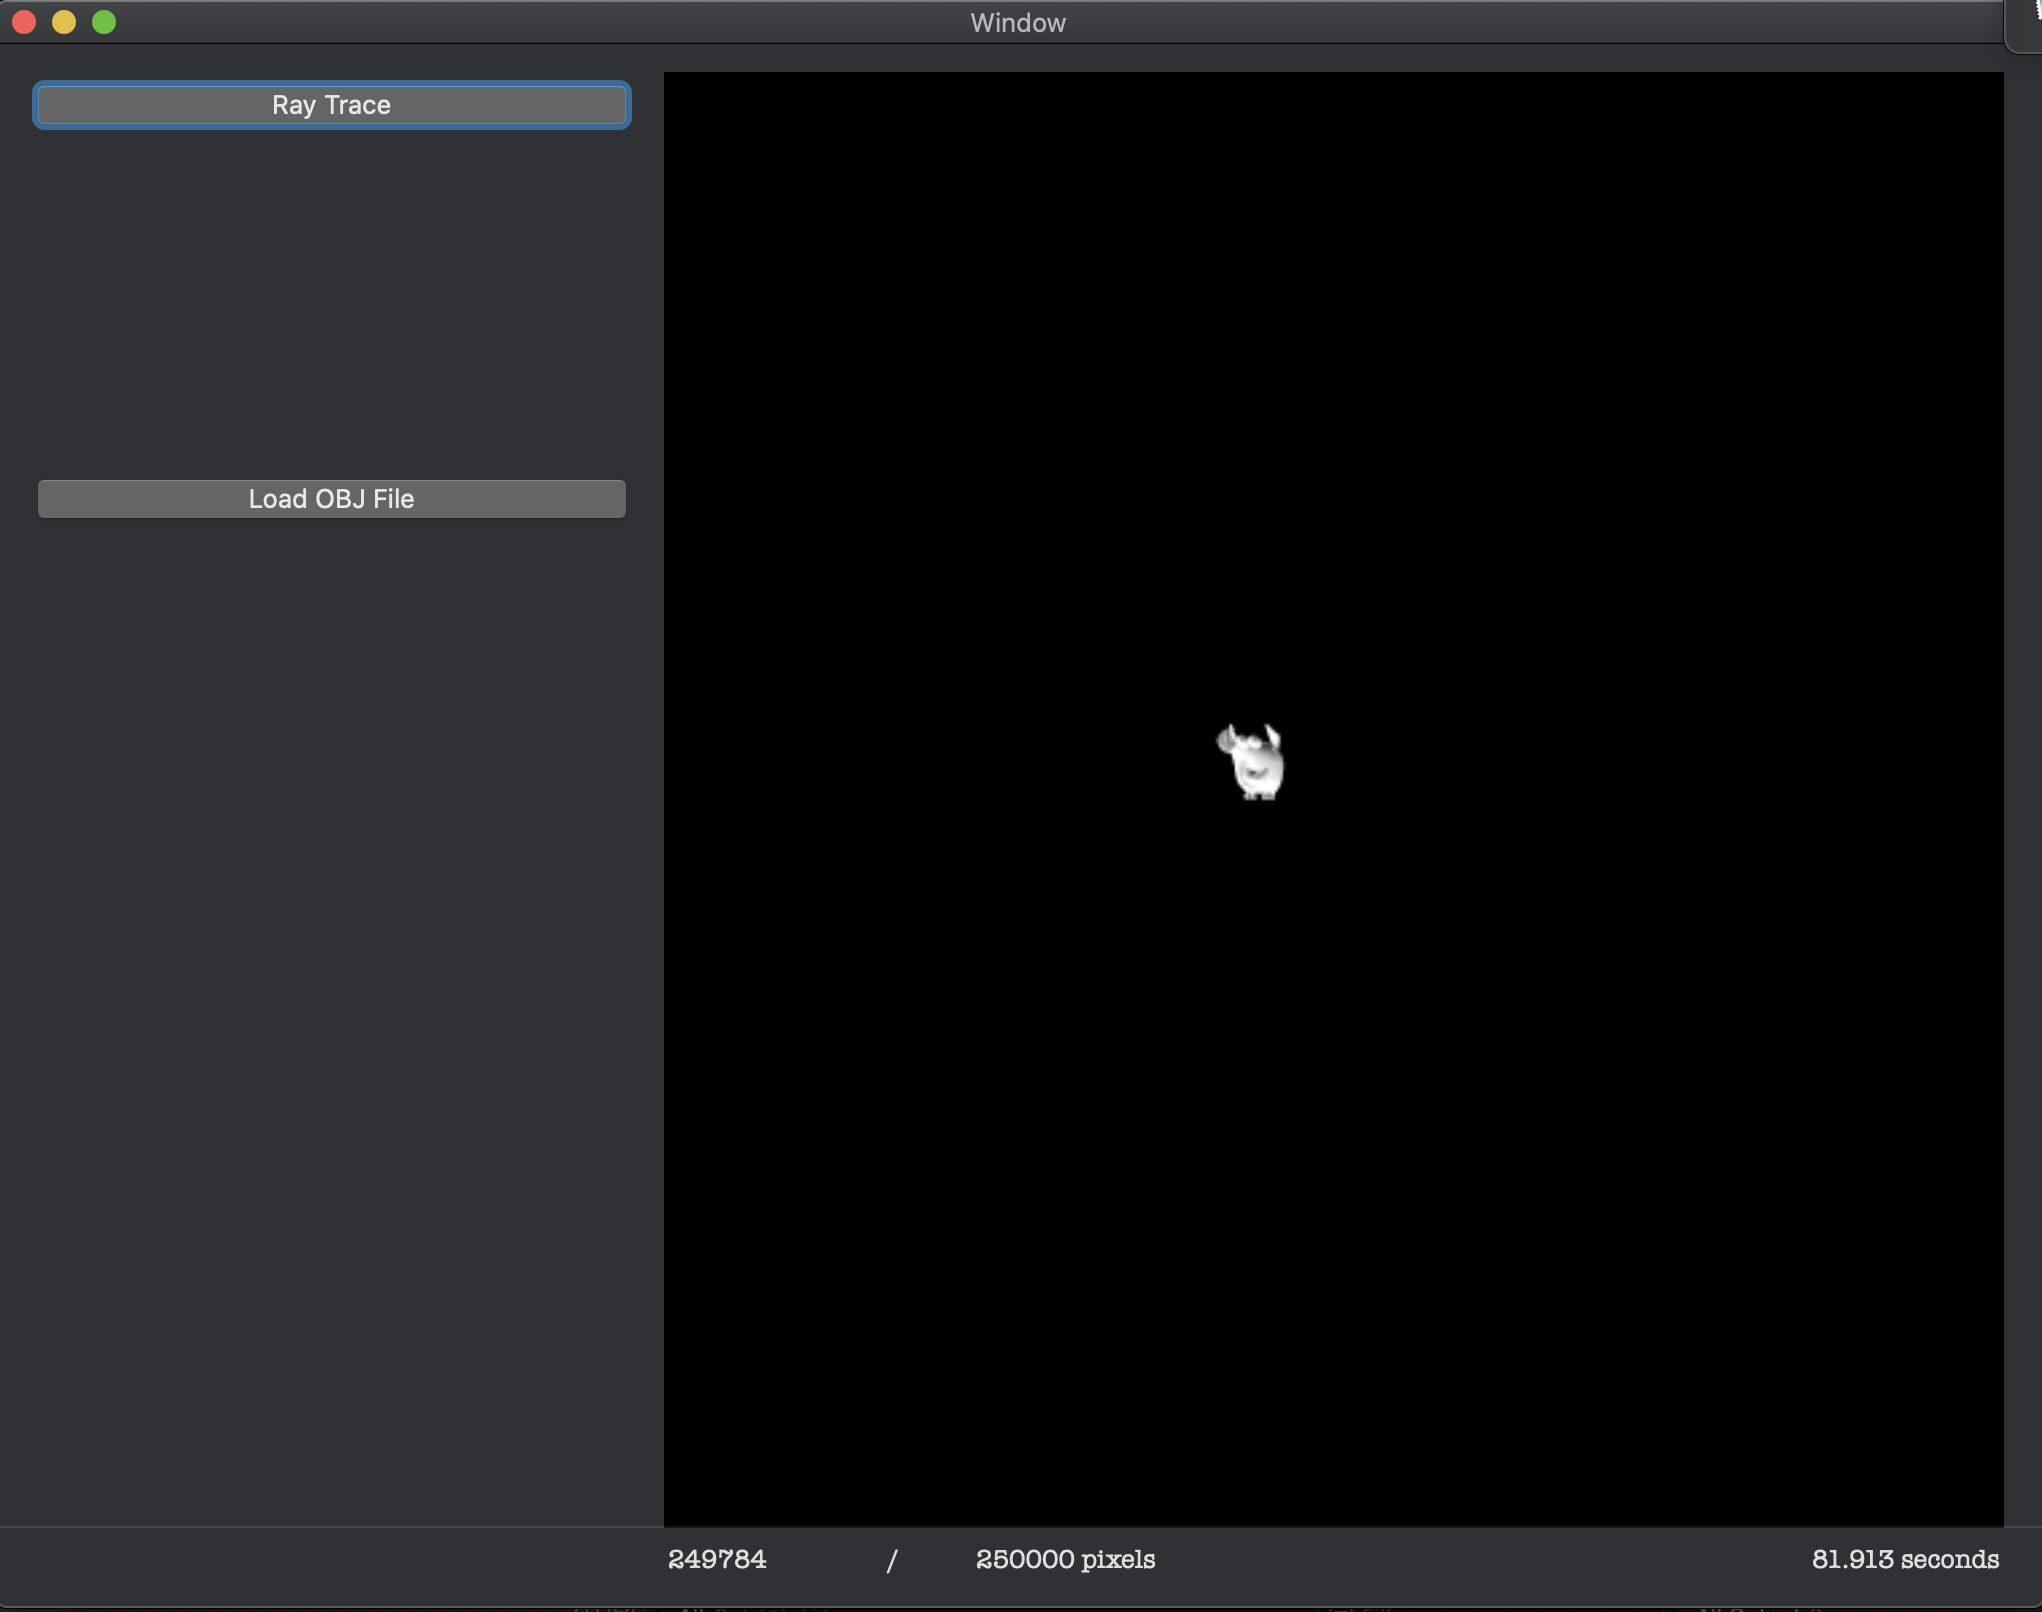
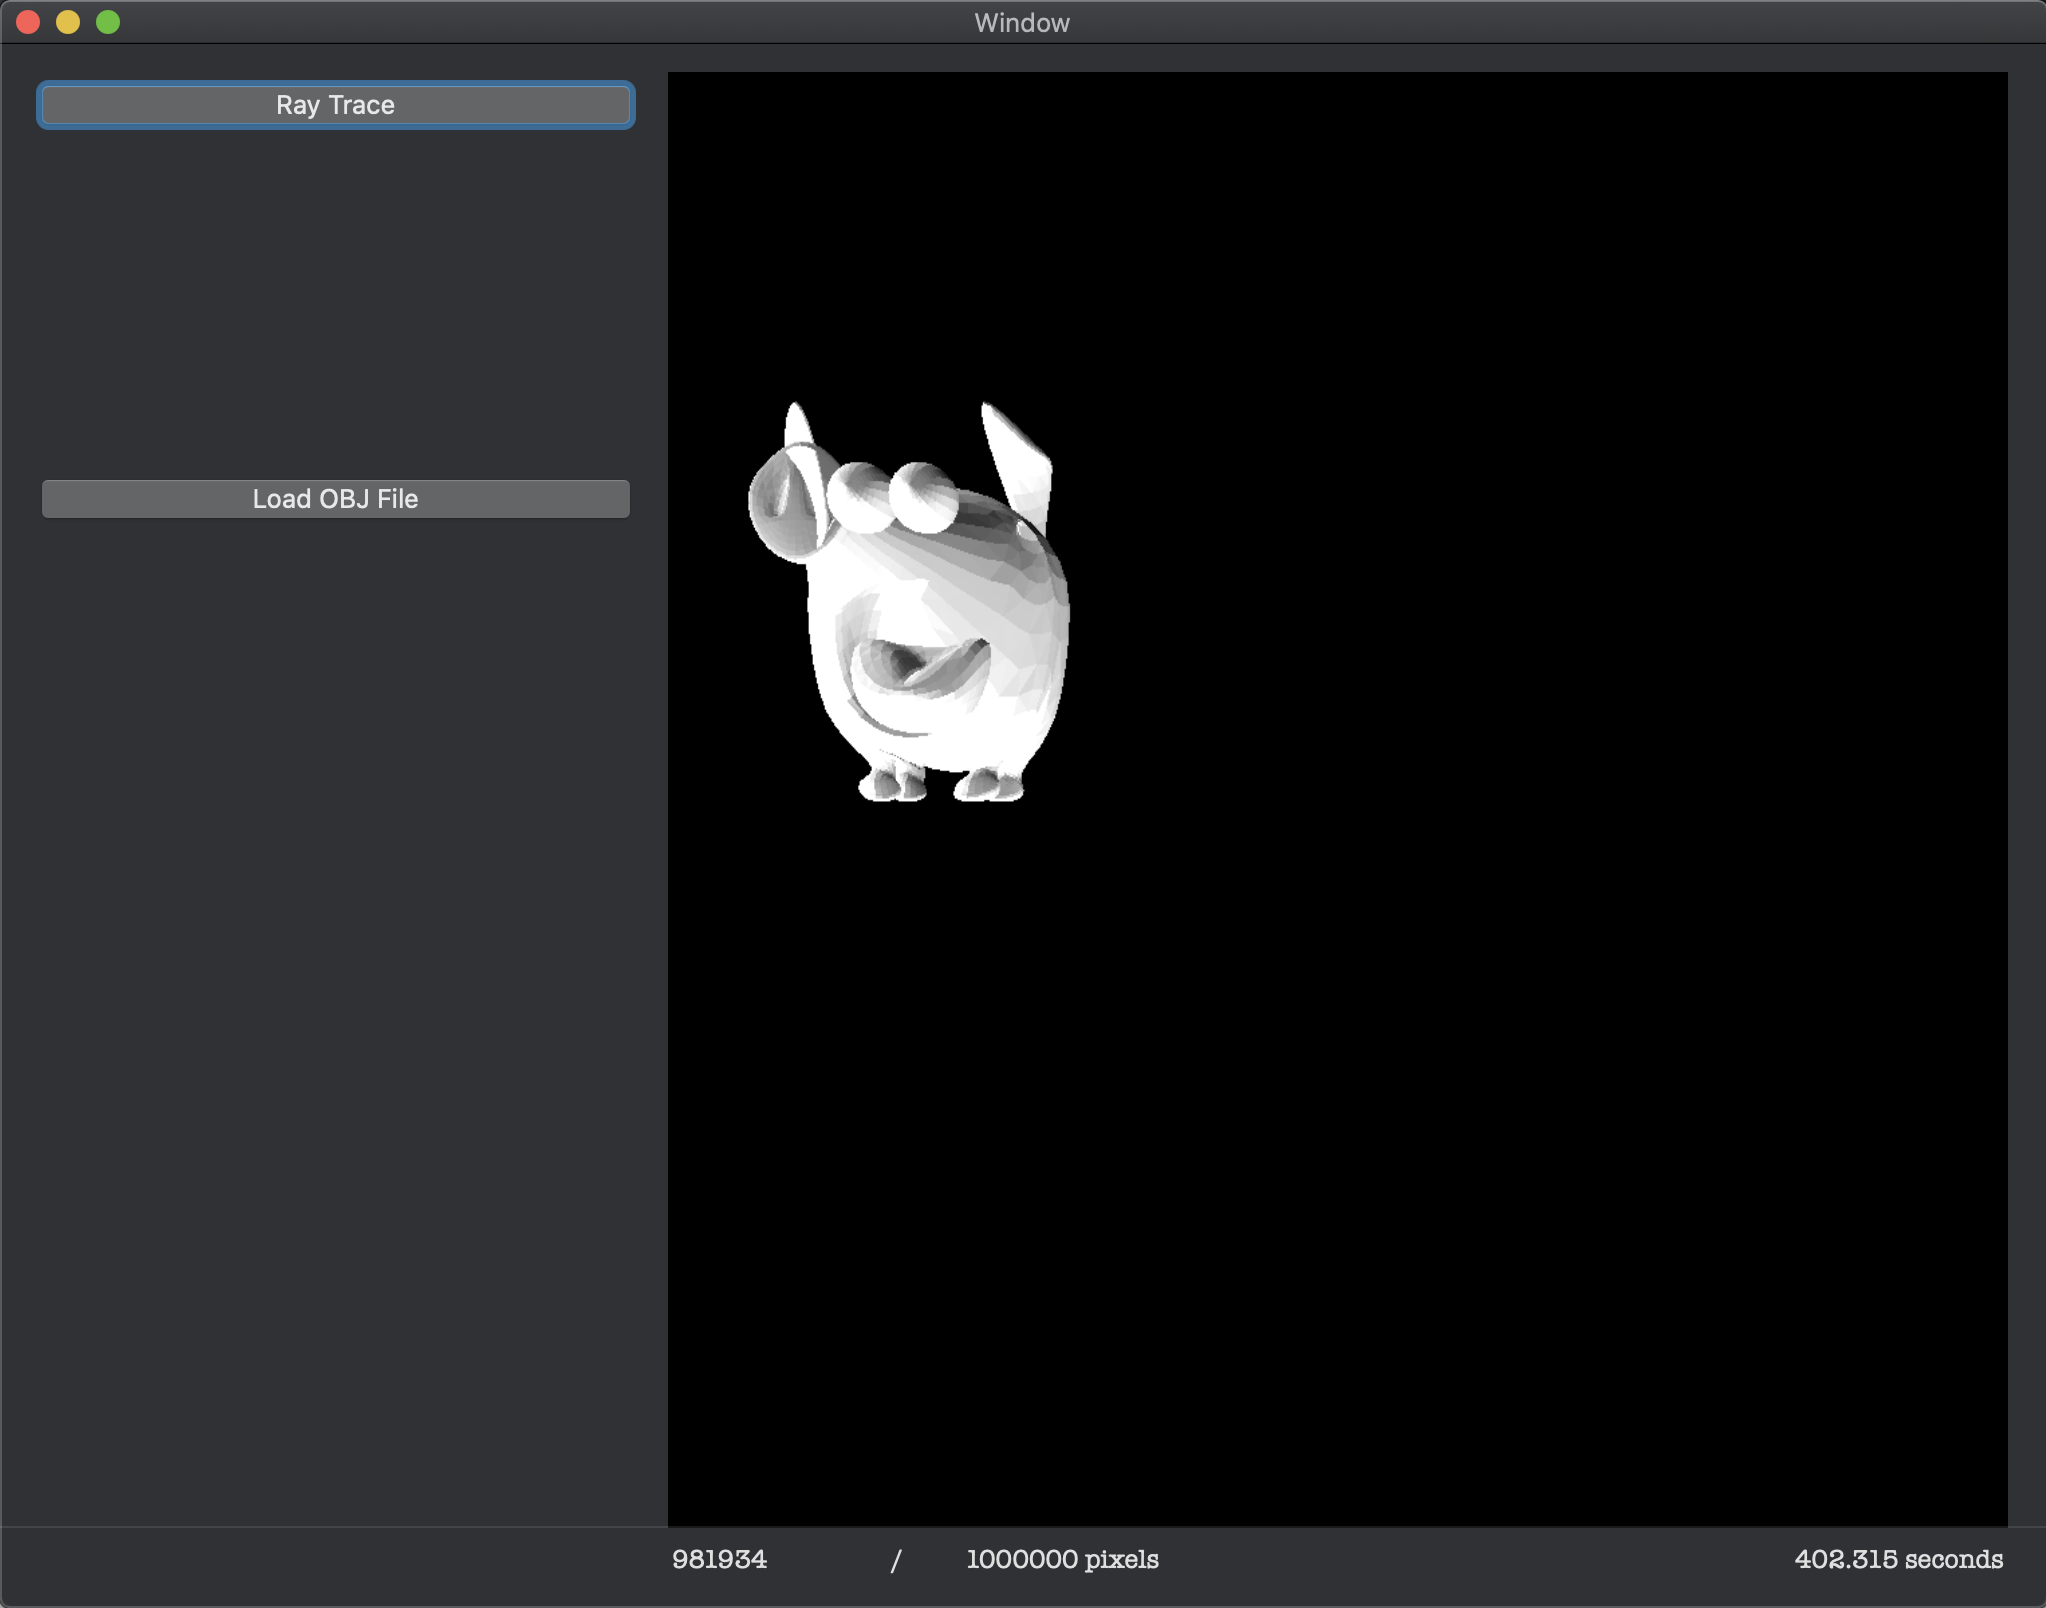
Fix so pixels are correctly (I think) mapped to world coordinates, so we can change the resolution without changing the actual world that we're rendering.  Updated sample image and did some parameter renaming for clarity.

diff --git a/RayTraceUI/RayTracingFunctions.swift b/RayTraceUI/RayTracingFunctions.swift
@@ -55,39 +55,43 @@ func getPlaneVectors(origin : v3d,
     return (u,v)
 }
 
-func raytracePixels(ul : v3d,
+func raytracePixels(ul: v3d,
+                    ur: v3d,
+                    ll: v3d,
+                    lr: v3d,
                     u : v3d,
                     v : v3d,
                     camera : v3d,
-                    startX : Int,
-                    startY : Int,
-                    endX : Int,
-                    endY : Int,
+                    startXPixel : Int,
+                    startYPixel: Int,
+                    endXPixel : Int,
+                    endYPixel : Int,
                     lights : [PointLight],
                     objects : [RayIntersectable],
                     outputBitmap : inout [UInt8],
                     pixelDone : (() -> Void)?) {
-    let pixelsPerWorldUnit = 1.0
+    let pixelsPerWorldHorizontal =  Double(endXPixel - startXPixel) / sqrt(lenSquared(ur - ul))
+    let pixelsPerWorldVertical = Double(endYPixel - startYPixel) / sqrt(lenSquared(ll - ul))
 
-    func pixLocation(_ i : Double, _ j : Double) -> v3d {
-        let horizOffset = u * i / pixelsPerWorldUnit
-        let vertOffset = v * j / pixelsPerWorldUnit
-        return ul + horizOffset - vertOffset
+    func pixelToWorldCoordinate(_ i : Double, _ j : Double) -> v3d {
+        let uComponent = ((u * i) / pixelsPerWorldHorizontal)
+        let vComponent = ((v * j) / pixelsPerWorldVertical)
+        return ul + uComponent - vComponent
     }
 
     let rowBytesToSkip = imageWidth * 4
     let subdivision : Double = 1.0
 
-    for i in stride(from: startX, to: endX, by: 1) {
+    for i in stride(from: startXPixel, to: endXPixel, by: 1) {
         let horizontalOffset = i * 4
-        for j in stride(from: startY, to: endY, by: 1) {
+        for j in stride(from: startYPixel, to: endYPixel, by: 1) {
             var pixelValues : [Double] = []
             let firstByte = rowBytesToSkip * j + horizontalOffset
 
             for x in stride(from: Double(i), to: Double(i+1), by: subdivision) {
                 for y in stride(from: Double(j), to: Double(j+1), by: subdivision) {
 
-                    let cameraToPixelVector = pixLocation(x, y) - camera
+                    let cameraToPixelVector = pixelToWorldCoordinate(x, y) - camera
                     let c2punit = normalize(cameraToPixelVector)
                     var intersections : [Intersection] = []
                     traceRay(origin: camera, direction: c2punit, objects: objects, intersections: &intersections)
@@ -162,34 +166,45 @@ func getBounds(_ objects : [RayIntersectable]) -> [ BoundsDictKey : Double ] {
 func raytraceWorld(camera : v3d,
                    cameraDirection : v3d,
                    focalLength : Double,
-                   imageWidth : Int,
-                   imageHeight : Int,
+                   imageWidthPixels : Int,
+                   imageHeightPixels : Int,
                    lights : [PointLight],
                    objects : [RayIntersectable],
                    outputBitmap : inout [UInt8],
                    pixelDone :  (() -> Void)?) {
     let imageCenterCoordinate = camera + focalLength * cameraDirection
-    let (u, v) : (v3d, v3d) = getPlaneVectors(origin: camera, direction: cameraDirection, focalLength: focalLength)
+    let (u, v) : (v3d, v3d) = getPlaneVectors(origin: camera,
+                                              direction: cameraDirection,
+                                              focalLength: focalLength)
     let worldBounds = getBounds(objects)
     print(worldBounds)
     print(imageCenterCoordinate)
-    let worldHorizontalRange = 100.0
-    let worldVerticalRange = 100.0
+    let worldHorizontalRange = 10.0
+    let worldVerticalRange = 10.0
     let hpc = u * (Double(worldHorizontalRange) / 2.0)
     let vpc = v * (Double(worldVerticalRange) / 2.0)
 
     let ul : v3d = imageCenterCoordinate - hpc + vpc
     let ur : v3d = imageCenterCoordinate + hpc + vpc
     let ll : v3d = imageCenterCoordinate - hpc - vpc
-    let lr : v3d - imageCenterCoordinate + hpc - vpc
+    let lr : v3d = imageCenterCoordinate + hpc - vpc
     print(ul)
 
     raytracePixels(ul: ul,
+                   ur: ur,
+                   ll: ll,
+                   lr: lr,
                    u: u,
                    v: v,
                    camera: camera,
-                   startX: 0, startY: 0, endX: imageWidth, endY: imageHeight,
-                   lights: lights, objects: objects, outputBitmap: &outputBitmap, pixelDone: pixelDone)
+                   startXPixel: 0,
+                   startYPixel: 0,
+                   endXPixel: imageWidth,
+                   endYPixel: imageHeight,
+                   lights: lights,
+                   objects: objects,
+                   outputBitmap: &outputBitmap,
+                   pixelDone: pixelDone)
 }
 
 func calculateLighting(atIntersection isect : Intersection,

diff --git a/RayTraceUI/ViewController.swift b/RayTraceUI/ViewController.swift
@@ -101,12 +101,12 @@ class ViewController: NSViewController {
             raytraceWorld(camera: v3d(0, 0, 150),
                           cameraDirection: v3d(0, 0, -1),
                           focalLength: 10,
-                          imageWidth: imageWidth - 1,
-                          imageHeight: imageHeight - 1,
+                          imageWidthPixels: imageWidth - 1,
+                          imageHeightPixels: imageHeight - 1,
                           lights: [PointLight(v3d(-500, -500, 25)),
                                    PointLight(v3d(500, -500, 25)),
                                    PointLight(v3d(-500, 500, 25))],
-                          objects: [Sphere(v3d(0, 0, 0), 50)],
+                          objects: self.t, //[Sphere(v3d(0, 0, 0), 50)],
 //                 Sphere(v3d(0, 1000, 0), 500)],
 /*                [Triangle([v3d(-500, -500, 0), v3d(500, -500, 0), v3d(-500, 500, 0)]),
                  Triangle([v3d(-500, 500, 0), v3d(500, -500, 0), v3d(500, 500, 0)]),

diff --git a/README.md b/README.md
@@ -1,7 +1,7 @@
 Simple ray tracer in Swift.
 
-## Example image
-![Sample ray traced sphere](RayTraceExample.png)
+## Example image ("Origins of the Pig" from https://www.cs.cmu.edu/~kmcrane/Projects/ModelRepository/)
+![Sample ray traced image](RayTraceExample.png)
 
 ## Comparison with/without antialiasing
 ![With and without antialiasing](Antialiasing%20comparison.png)
